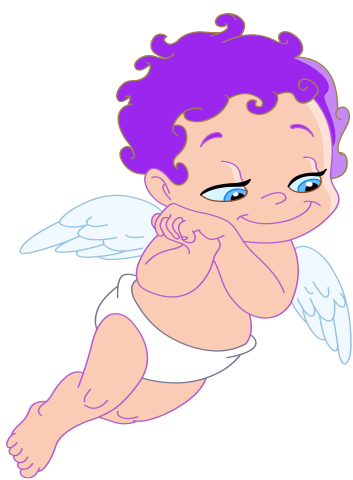
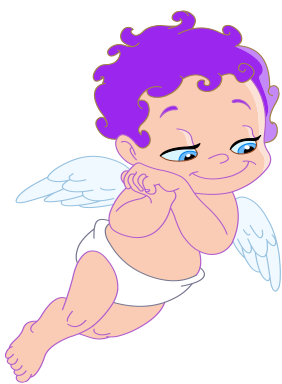
trivial changes at rodney's request

diff --git a/app/assets/stylesheets/toothache.css b/app/assets/stylesheets/toothache.css
@@ -194,16 +194,16 @@ div#main_content {
 	background-color:rgba(0,0,0,.3);
 }
 #cherub1 {
-	height:480px;
-	width:353px;
-	left:15%;
+	height:384px;
+	width:282px;
+	left:20%;
 	top:180px;
 	background: url('/assets/cherub1_lg.png') no-repeat;
 }
 #cherub2 {
-	height:480px;
-	width:353px;
-	right:15%;
+	height:384px;
+	width:282px;
+	right:20%;
 	top:90px;
 	background: url('/assets/cherub2_lg.png') no-repeat;
 }
